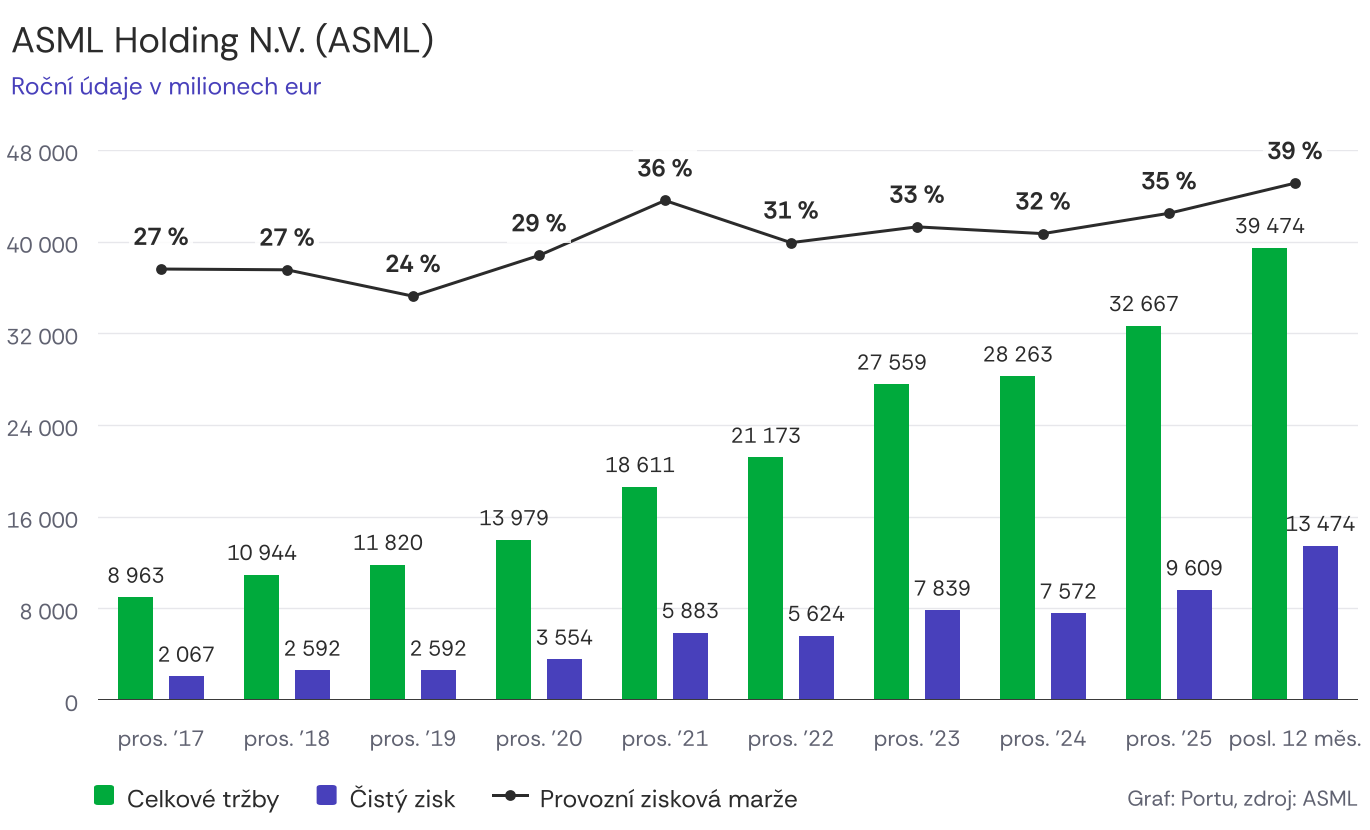
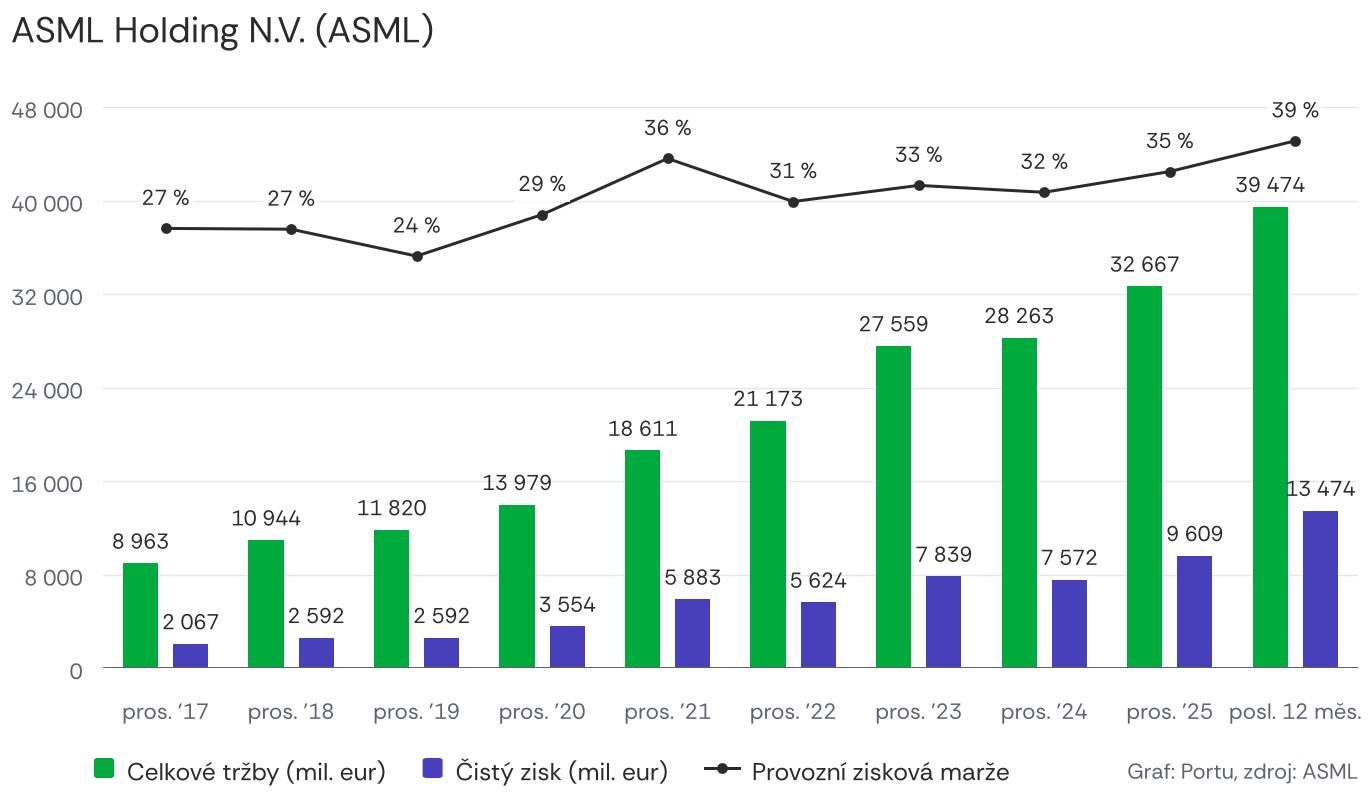
Graf ASML: stejný styl jako grafy inflace a SOX
Nadpis, osy, legenda a zdroj přes funkce nastroje/portu_grafy.py,
bez podtitulku (jednotka v legendě), popisky marže netučné.
portu_grafy: položka legendy s čárou a bodem ((název, barva, 'cara')).

Claude-Session: https://claude.ai/code/session_01A8r6cxYv4z3RaLJthvcQAS

diff --git a/vystupy/grafy/2026-10-16-asml.py b/vystupy/grafy/2026-10-16-asml.py
@@ -3,27 +3,17 @@
 Data: výkazy ASML podle US GAAP – roky 2017–2025 z výročních zpráv (20-F, SEC XBRL),
 posledních 12 měsíců = rok 2025 − 1.–3. čtvrtletí 2025 + 1.–3. čtvrtletí 2026 (6-K ze 14. 10. 2026).
 Provozní marže = provozní zisk (income from operations) / celkové tržby.
-Vzhled: nástroj nastroje/portu_grafy.py (barvy, písmo Rethink Sans, legenda a zdroj dole).
+Vzhled: stejný jako grafy inflace a SOX – nadpis, osy, legenda a zdroj z nastroje/portu_grafy.py.
 Spouštěj z kořene repozitáře: python3 vystupy/grafy/2026-10-16-asml.py
 """
 import csv
 import sys
 from decimal import ROUND_HALF_UP, Decimal
 
-import matplotlib
-
-matplotlib.use("Agg")
-import matplotlib.pyplot as plt  # noqa: E402
-from matplotlib import font_manager  # noqa: E402
-from matplotlib.lines import Line2D  # noqa: E402
-from matplotlib.patches import FancyBboxPatch  # noqa: E402
-
 sys.path.insert(0, "nastroje")
 import portu_grafy as pg  # noqa: E402
 
 ZAKLAD = "vystupy/grafy/2026-10-16-asml"
-BOLD = font_manager.FontProperties(fname="nastroje/fonty/RethinkSans-Bold.ttf")
-CARA_MARZE = pg.TEXT_TMAVY
 
 obdobi, trzby, zisk, marze = [], [], [], []
 with open(ZAKLAD + ".csv", encoding="utf-8") as f:
@@ -39,72 +29,44 @@ def cele(v):
     return pg.cislo(float(Decimal(str(v)).quantize(Decimal("1"), ROUND_HALF_UP)), 0)
 
 
-# plátno 1370 × 830 px: nadpis, podtitulek, graf, osa x, legenda + zdroj
-W, H = pg.SIRKA_PX, 830
-fig = plt.figure(figsize=(W / pg.DPI, H / pg.DPI), dpi=pg.DPI, facecolor="white")
-LEVA, PRAVA, HORNI, DOLNI = 98, pg.GRAF_PRAVA, 150, 700
-ax = fig.add_axes([LEVA / W, 1 - DOLNI / H, (PRAVA - LEVA) / W, (DOLNI - HORNI) / H])
-for s in ax.spines.values():
-    s.set_visible(False)
-ax.tick_params(length=0, colors=pg.TEXT_SEDY, labelsize=pg.PISMO_OSA)
-ax.grid(axis="y", color=pg.MRIZKA, linewidth=1.4 * 72 / pg.DPI)
-ax.set_axisbelow(True)
+# plátno, nadpis, osa y a mřížka stejně jako u grafů inflace a SOX
+fig, ax = pg._platno(pg.GRAF_DOLNI_1RADEK, nadpis="ASML Holding N.V. (ASML)")
+OSA = (0, 48000, 8000)
+pg._osa_y(ax, OSA, "", 0)
+ax.axhline(0, color=pg.ZAKLADNA, linewidth=2 * 72 / pg.DPI, zorder=3)
 
-fig.text(11 / W, 1 - 40 / H, "ASML Holding N.V. (ASML)", fontsize=pg.PISMO_NADPIS, color=pg.TEXT_TMAVY, va="center")
-fig.text(11 / W, 1 - 86 / H, "Roční údaje v milionech eur", fontsize=pg.PISMO_LEGENDA, color=pg.FIALOVA, va="center")
-
-# osa y (mil. eur)
-ax.set_ylim(0, 48000)
-ax.set_yticks(range(0, 48001, 8000))
-ax.set_yticklabels([pg.cislo(v, 0) for v in range(0, 48001, 8000)])
-ax.tick_params(axis="y", pad=20 / pg.PT)
-ax.axhline(0, color=pg.NULOVA_CARA, linewidth=2 * 72 / pg.DPI, zorder=3)
-
-# sloupce: tržby zeleně, čistý zisk fialově (jako v podkladu)
+# sloupce: tržby zeleně, čistý zisk fialově; hodnoty nad sloupci jako u sloupcových grafů Portu
 n = len(obdobi)
 ax.set_xlim(-0.5, n - 0.5)
 SIRKA, MEZERA = 0.28, 0.12  # mezera, aby popisky zisku nezasahovaly do sloupců tržeb
-odsazeni = 8 / (DOLNI - HORNI) * 48000
+odsazeni = 8 / (pg.GRAF_DOLNI_1RADEK - pg.GRAF_HORNI) * OSA[1]
 for posun, hodnoty, barva in ((-(SIRKA + MEZERA) / 2, trzby, pg.ZELENA), ((SIRKA + MEZERA) / 2, zisk, pg.FIALOVA)):
     xs = [i + posun for i in range(n)]
     ax.bar(xs, hodnoty, width=SIRKA, color=barva, zorder=2, linewidth=0)
     for x, v in zip(xs, hodnoty):
-        ax.text(x, v + odsazeni, cele(v), ha="center", va="bottom", fontsize=pg.PISMO_HODNOTA, color=pg.TEXT_TMAVY, zorder=4)
-
+        ax.text(x, v + odsazeni, cele(v), ha="center", va="bottom", fontsize=pg.PISMO_HODNOTA,
+                color=pg.TEXT_TMAVY, zorder=4)
 ax.set_xticks(range(n))
 ax.set_xticklabels(obdobi, fontsize=pg.PISMO_OSA, color=pg.TEXT_SEDY)
-ax.tick_params(axis="x", pad=24 / pg.PT)
+ax.tick_params(axis="x", pad=29 / pg.PT)
 
-# provozní marže: čára s body na vlastní (skryté) ose, popisky tučně nad body
+# provozní marže: čára s body na vlastní skryté ose nad sloupci, hodnota nad bodem
 ax2 = ax.twinx()
-ax2.set_ylim(-30, 43)  # čára marže nad sloupci a jejich popisky
+ax2.set_ylim(-30, 43)
 ax2.axis("off")
-ax2.plot(range(n), marze, color=CARA_MARZE, linewidth=3 / pg.PT, marker="o", markersize=8 / pg.PT, zorder=5)
+ax2.plot(range(n), marze, color=pg.TEXT_TMAVY, linewidth=3 / pg.PT, marker="o", markersize=8 / pg.PT, zorder=5)
 for i, m in enumerate(marze):
-    ax2.text(i, m + 2.2, pg.cislo(round(m), 0, "%"), ha="center", va="bottom", fontsize=pg.PISMO_LEGENDA,
-             color=pg.TEXT_TMAVY, fontproperties=BOLD, zorder=6,
-             bbox=dict(facecolor="white", edgecolor="none", pad=1.5, alpha=0.85))
+    ax2.text(i, m + 2.2, pg.cislo(round(m), 0, "%"), ha="center", va="bottom", fontsize=pg.PISMO_HODNOTA,
+             color=pg.TEXT_TMAVY, zorder=6, bbox=dict(facecolor="white", edgecolor="none", pad=1.5, alpha=0.85))
 
-# legenda vlevo dole (čtverečky pro sloupce, čára s bodem pro marži), zdroj vpravo dole
-y_leg = 1 - 795 / H
-x = pg.GRAF_LEVA + 3
+# levý okraj podle nejdelšího popisku osy y („48 000“), jako u grafu SOX
 renderer = fig.canvas.get_renderer()
-for popis, barva, typ in (("Celkové tržby", pg.ZELENA, "ctverec"), ("Čistý zisk", pg.FIALOVA, "ctverec"),
-                          ("Provozní zisková marže", CARA_MARZE, "cara")):
-    if typ == "ctverec":
-        fig.patches.append(FancyBboxPatch((x / W, y_leg - 10 / H), 20 / W, 20 / H, boxstyle="round,pad=0,rounding_size=0.003",
-                                          transform=fig.transFigure, facecolor=barva, edgecolor="none"))
-        sirka_znacky = 20
-    else:
-        fig.add_artist(Line2D([x / W, (x + 34) / W], [y_leg, y_leg], transform=fig.transFigure, color=barva,
-                              linewidth=3 / pg.PT))
-        fig.add_artist(Line2D([(x + 17) / W], [y_leg], transform=fig.transFigure, color=barva, marker="o",
-                              markersize=8 / pg.PT, linestyle="none"))
-        sirka_znacky = 34
-    t = fig.text((x + sirka_znacky + 13) / W, y_leg, popis, fontsize=pg.PISMO_LEGENDA, color=pg.TEXT_TMAVY,
-                 va="center_baseline")
-    x += sirka_znacky + 13 + t.get_window_extent(renderer).width + 37
-fig.text(PRAVA / W, y_leg, "Graf: Portu, zdroj: ASML", fontsize=pg.PISMO_ZDROJ, color=pg.TEXT_SEDY, ha="right",
-         va="center_baseline")
+fig.canvas.draw()
+leva = max(pg.GRAF_LEVA, max(t.get_window_extent(renderer).width for t in ax.get_yticklabels()) + 31)
+pos = ax.get_position()
+for a in (ax, ax2):
+    a.set_position([pg._fx(leva), pos.y0, pg._fx(pg.GRAF_PRAVA - leva), pos.height])
 
-fig.savefig(ZAKLAD + ".png", dpi=pg.DPI, facecolor="white")
+pg._legenda_a_zdroj(fig, [("Celkové tržby (mil. eur)", pg.ZELENA), ("Čistý zisk (mil. eur)", pg.FIALOVA),
+                          ("Provozní zisková marže", pg.TEXT_TMAVY, "cara")], "Graf: Portu, zdroj: ASML")
+pg.uloz(fig, ZAKLAD + ".png")

diff --git a/nastroje/portu_grafy.py b/nastroje/portu_grafy.py
@@ -24,6 +24,7 @@ import matplotlib.dates as mdates  # noqa: E402
 import matplotlib.pyplot as plt  # noqa: E402
 import matplotlib.ticker  # noqa: E402
 from matplotlib import font_manager  # noqa: E402
+from matplotlib.lines import Line2D  # noqa: E402
 from matplotlib.patches import FancyBboxPatch  # noqa: E402
 
 # --- Barvy --------------------------------------------------------------------
@@ -144,17 +145,27 @@ def _osa_y(ax, osa_y, jednotka, mista_osa):
 
 
 def _legenda_a_zdroj(fig, polozky, zdroj):
+    """polozky: (název, barva) = zaoblený čtvereček, (název, barva, 'cara') = čára s bodem."""
     fy = fig._portu["fy"]
     x = GRAF_LEVA + 3
-    for nazev, barva in polozky:
-        fig.patches.append(FancyBboxPatch(
-            (_fx(x), fy(LEGENDA_STRED_Y + CTVEREC / 2)), _fx(CTVEREC), fy(LEGENDA_STRED_Y - CTVEREC / 2) - fy(LEGENDA_STRED_Y + CTVEREC / 2),
-            boxstyle="round,pad=0,rounding_size=0.003", transform=fig.transFigure,
-            facecolor=barva, edgecolor="none"))
-        t = fig.text(_fx(x + CTVEREC + 13), fy(LEGENDA_STRED_Y), nazev, fontsize=PISMO_LEGENDA,
+    for polozka in polozky:
+        nazev, barva = polozka[0], polozka[1]
+        if len(polozka) > 2 and polozka[2] == "cara":
+            sirka_znacky = 34
+            fig.add_artist(Line2D([_fx(x), _fx(x + sirka_znacky)], [fy(LEGENDA_STRED_Y)] * 2, transform=fig.transFigure,
+                                  color=barva, linewidth=3 / PT))
+            fig.add_artist(Line2D([_fx(x + sirka_znacky / 2)], [fy(LEGENDA_STRED_Y)], transform=fig.transFigure,
+                                  color=barva, marker="o", markersize=8 / PT, linestyle="none"))
+        else:
+            sirka_znacky = CTVEREC
+            fig.patches.append(FancyBboxPatch(
+                (_fx(x), fy(LEGENDA_STRED_Y + CTVEREC / 2)), _fx(CTVEREC), fy(LEGENDA_STRED_Y - CTVEREC / 2) - fy(LEGENDA_STRED_Y + CTVEREC / 2),
+                boxstyle="round,pad=0,rounding_size=0.003", transform=fig.transFigure,
+                facecolor=barva, edgecolor="none"))
+        t = fig.text(_fx(x + sirka_znacky + 13), fy(LEGENDA_STRED_Y), nazev, fontsize=PISMO_LEGENDA,
                      color=TEXT_TMAVY, ha="left", va="center_baseline")
         sirka = t.get_window_extent(renderer=fig.canvas.get_renderer()).width
-        x += CTVEREC + 13 + sirka + 37
+        x += sirka_znacky + 13 + sirka + 37
     if zdroj:
         fig.text(_fx(GRAF_PRAVA), fy(LEGENDA_STRED_Y), zdroj, fontsize=PISMO_ZDROJ, color=TEXT_SEDY,
                  ha="right", va="center_baseline")
